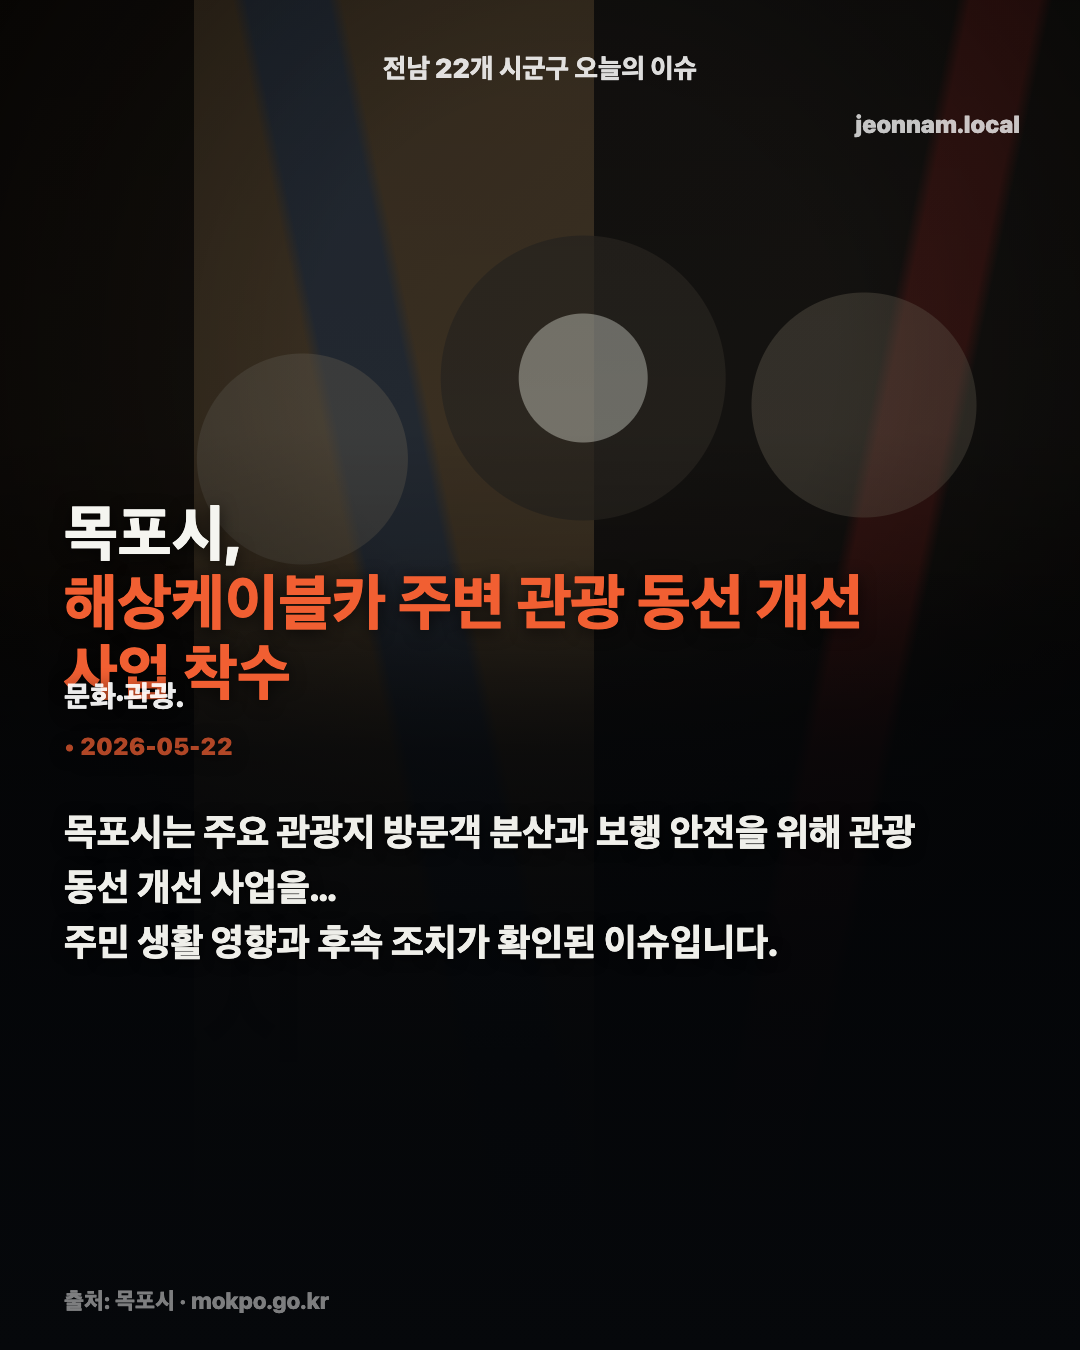
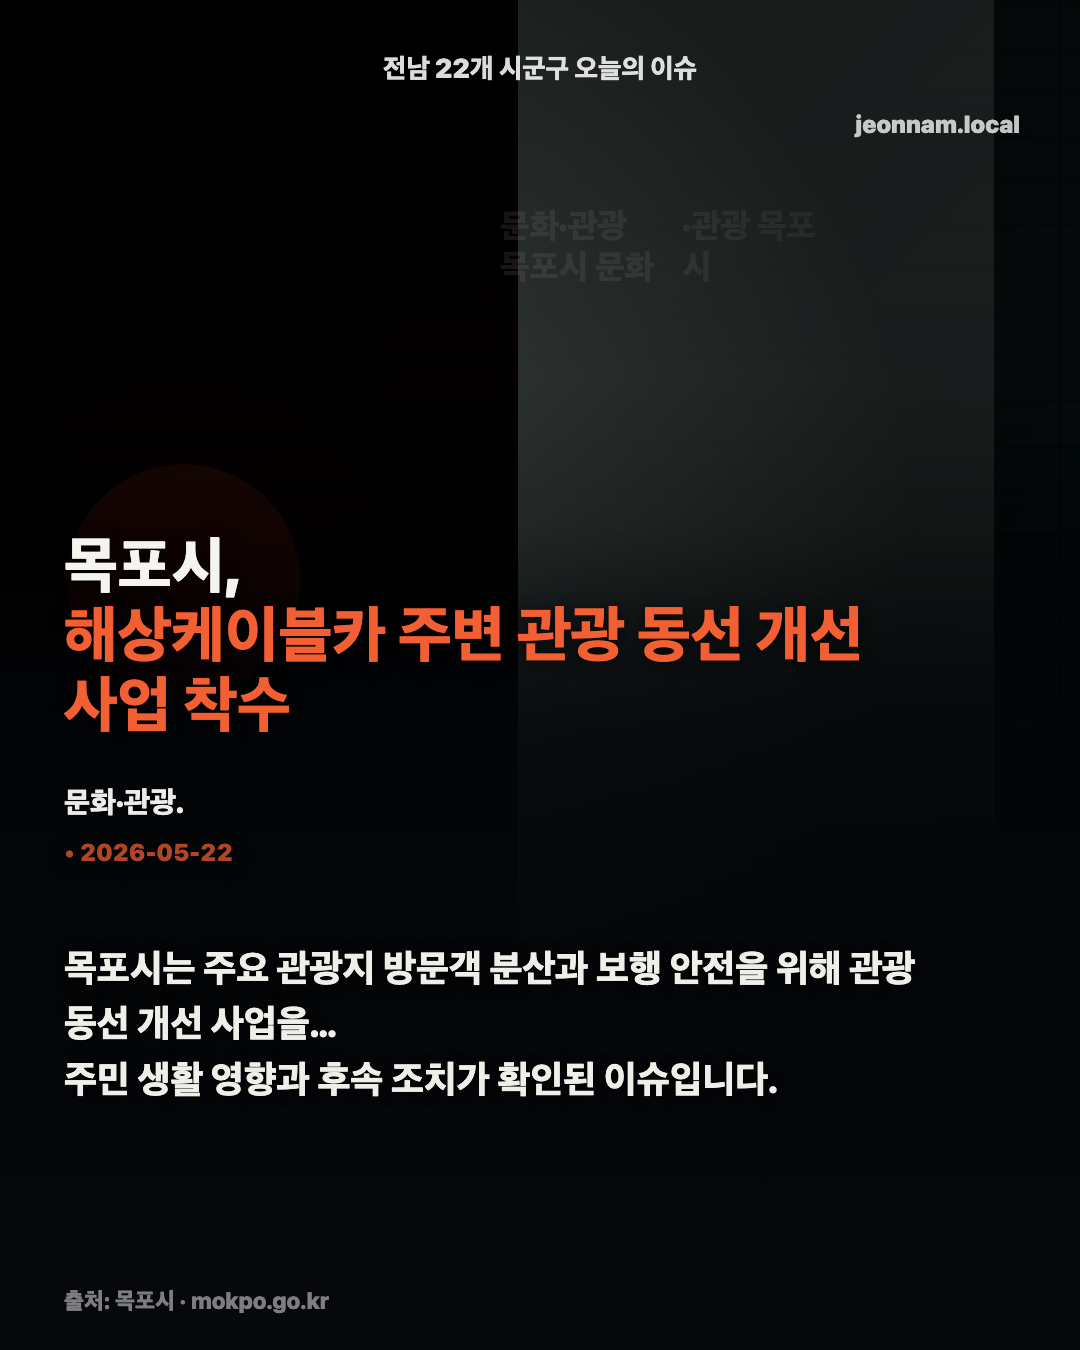
Add newsprint fallback card texture

diff --git a/reports/2026-05-22/html/목포시.html b/reports/2026-05-22/html/목포시.html
@@ -26,35 +26,37 @@
       position: absolute;
       inset: 0;
       background:
-        radial-gradient(circle at 54% 28%, rgba(230,230,215,.78) 0 64px, rgba(77,70,60,.76) 65px 142px, transparent 143px),
-        radial-gradient(circle at 28% 34%, rgba(160,150,130,.45) 0 105px, transparent 106px),
-        radial-gradient(circle at 80% 30%, rgba(195,180,150,.35) 0 112px, transparent 113px),
-        linear-gradient(78deg, transparent 0 38%, rgba(40,72,115,.62) 39% 45%, transparent 46%),
-        linear-gradient(102deg, transparent 0 70%, rgba(150,48,42,.58) 71% 76%, transparent 77%),
-        linear-gradient(90deg, rgba(40,34,28,.88) 0 18%, rgba(115,92,62,.78) 18% 55%, rgba(38,36,34,.9) 55% 100%),
-        linear-gradient(135deg, #26211d 0%, #6a5a43 46%, #171717 100%);
-      filter: contrast(1.08) brightness(.72) saturate(.82);
+        linear-gradient(90deg, rgba(0,0,0,.52) 0 48%, rgba(32,55,61,.54) 48% 100%),
+        radial-gradient(circle at 17% 43%, rgba(244,94,47,.46) 0 116px, rgba(72,26,18,.5) 117px 206px, transparent 207px),
+        linear-gradient(90deg, transparent 0 48%, rgba(228,232,214,.58) 48% 92%, transparent 92%),
+        repeating-linear-gradient(90deg, transparent 0 506px, rgba(0,0,0,.26) 506px 510px, transparent 510px 552px),
+        repeating-linear-gradient(0deg, transparent 0 22px, rgba(30,38,42,.42) 22px 27px, transparent 27px 44px),
+        linear-gradient(135deg, #171b1c 0%, #38251f 34%, #314246 72%, #111416 100%);
+      filter: contrast(1.15) brightness(.7) saturate(.72);
     }
     .photo::before {
-      content: "목포시";
+      content: "문화·관광  목포시  문화·관광  목포시";
       position: absolute;
-      left: -18px;
-      right: -18px;
-      bottom: 288px;
-      color: rgba(0,0,0,.34);
-      font-size: 126px;
-      line-height: .86;
+      left: 500px;
+      right: 54px;
+      top: 205px;
+      bottom: 270px;
+      color: rgba(235,235,225,.2);
+      font-size: 34px;
+      line-height: 1.22;
       font-weight: 900;
-      white-space: nowrap;
+      word-break: break-all;
       overflow: hidden;
+      column-count: 3;
+      column-gap: 20px;
     }
     .photo::after {
       content: "";
       position: absolute;
       inset: 0;
       background:
-        linear-gradient(180deg, rgba(0,0,0,.26) 0%, rgba(0,0,0,.22) 32%, rgba(0,0,0,.54) 58%, rgba(3,5,8,.96) 100%),
-        radial-gradient(circle at 53% 26%, transparent 0 260px, rgba(0,0,0,.36) 680px);
+        linear-gradient(180deg, rgba(0,0,0,.2) 0%, rgba(0,0,0,.22) 28%, rgba(0,0,0,.64) 62%, rgba(4,7,10,.97) 100%),
+        radial-gradient(circle at 25% 38%, transparent 0 260px, rgba(0,0,0,.34) 640px);
     }
     .topline {
       position: absolute;
@@ -91,16 +93,12 @@
       left: 0;
       right: 0;
       bottom: 0;
-      min-height: 790px;
-      padding: 118px 64px 54px;
+      min-height: 820px;
+      padding: 0 64px 54px;
       background: linear-gradient(180deg, transparent 0%, rgba(5,7,10,.66) 24%, #06080b 100%);
     }
     .headline {
       margin: 0;
-      position: absolute;
-      left: 64px;
-      right: 64px;
-      top: -62px;
       font-size: 62px;
       line-height: 1.12;
       font-weight: 900;
@@ -113,6 +111,7 @@
     }
     .category {
       display: block;
+      margin-top: 46px;
       color: #fff;
       font-size: 30px;
       line-height: 1.2;
@@ -123,7 +122,7 @@
       opacity: .92;
     }
     .summary {
-      margin-top: 44px;
+      margin-top: 74px;
       color: #efefea;
       font-size: 38px;
       line-height: 1.45;

diff --git a/reports/2026-05-22/html/순천시.html b/reports/2026-05-22/html/순천시.html
@@ -26,35 +26,37 @@
       position: absolute;
       inset: 0;
       background:
-        radial-gradient(circle at 54% 28%, rgba(230,230,215,.78) 0 64px, rgba(77,70,60,.76) 65px 142px, transparent 143px),
-        radial-gradient(circle at 28% 34%, rgba(160,150,130,.45) 0 105px, transparent 106px),
-        radial-gradient(circle at 80% 30%, rgba(195,180,150,.35) 0 112px, transparent 113px),
-        linear-gradient(78deg, transparent 0 38%, rgba(40,72,115,.62) 39% 45%, transparent 46%),
-        linear-gradient(102deg, transparent 0 70%, rgba(150,48,42,.58) 71% 76%, transparent 77%),
-        linear-gradient(90deg, rgba(40,34,28,.88) 0 18%, rgba(115,92,62,.78) 18% 55%, rgba(38,36,34,.9) 55% 100%),
-        linear-gradient(135deg, #26211d 0%, #6a5a43 46%, #171717 100%);
-      filter: contrast(1.08) brightness(.72) saturate(.82);
+        linear-gradient(90deg, rgba(0,0,0,.52) 0 48%, rgba(32,55,61,.54) 48% 100%),
+        radial-gradient(circle at 17% 43%, rgba(244,94,47,.46) 0 116px, rgba(72,26,18,.5) 117px 206px, transparent 207px),
+        linear-gradient(90deg, transparent 0 48%, rgba(228,232,214,.58) 48% 92%, transparent 92%),
+        repeating-linear-gradient(90deg, transparent 0 506px, rgba(0,0,0,.26) 506px 510px, transparent 510px 552px),
+        repeating-linear-gradient(0deg, transparent 0 22px, rgba(30,38,42,.42) 22px 27px, transparent 27px 44px),
+        linear-gradient(135deg, #171b1c 0%, #38251f 34%, #314246 72%, #111416 100%);
+      filter: contrast(1.15) brightness(.7) saturate(.72);
     }
     .photo::before {
-      content: "순천시";
+      content: "복지·생활  순천시  복지·생활  순천시";
       position: absolute;
-      left: -18px;
-      right: -18px;
-      bottom: 288px;
-      color: rgba(0,0,0,.34);
-      font-size: 126px;
-      line-height: .86;
+      left: 500px;
+      right: 54px;
+      top: 205px;
+      bottom: 270px;
+      color: rgba(235,235,225,.2);
+      font-size: 34px;
+      line-height: 1.22;
       font-weight: 900;
-      white-space: nowrap;
+      word-break: break-all;
       overflow: hidden;
+      column-count: 3;
+      column-gap: 20px;
     }
     .photo::after {
       content: "";
       position: absolute;
       inset: 0;
       background:
-        linear-gradient(180deg, rgba(0,0,0,.26) 0%, rgba(0,0,0,.22) 32%, rgba(0,0,0,.54) 58%, rgba(3,5,8,.96) 100%),
-        radial-gradient(circle at 53% 26%, transparent 0 260px, rgba(0,0,0,.36) 680px);
+        linear-gradient(180deg, rgba(0,0,0,.2) 0%, rgba(0,0,0,.22) 28%, rgba(0,0,0,.64) 62%, rgba(4,7,10,.97) 100%),
+        radial-gradient(circle at 25% 38%, transparent 0 260px, rgba(0,0,0,.34) 640px);
     }
     .topline {
       position: absolute;
@@ -91,16 +93,12 @@
       left: 0;
       right: 0;
       bottom: 0;
-      min-height: 790px;
-      padding: 118px 64px 54px;
+      min-height: 820px;
+      padding: 0 64px 54px;
       background: linear-gradient(180deg, transparent 0%, rgba(5,7,10,.66) 24%, #06080b 100%);
     }
     .headline {
       margin: 0;
-      position: absolute;
-      left: 64px;
-      right: 64px;
-      top: -62px;
       font-size: 62px;
       line-height: 1.12;
       font-weight: 900;
@@ -113,6 +111,7 @@
     }
     .category {
       display: block;
+      margin-top: 46px;
       color: #fff;
       font-size: 30px;
       line-height: 1.2;
@@ -123,7 +122,7 @@
       opacity: .92;
     }
     .summary {
-      margin-top: 44px;
+      margin-top: 74px;
       color: #efefea;
       font-size: 38px;
       line-height: 1.45;

diff --git a/reports/2026-05-22/html/여수시.html b/reports/2026-05-22/html/여수시.html
@@ -26,35 +26,37 @@
       position: absolute;
       inset: 0;
       background:
-        radial-gradient(circle at 54% 28%, rgba(230,230,215,.78) 0 64px, rgba(77,70,60,.76) 65px 142px, transparent 143px),
-        radial-gradient(circle at 28% 34%, rgba(160,150,130,.45) 0 105px, transparent 106px),
-        radial-gradient(circle at 80% 30%, rgba(195,180,150,.35) 0 112px, transparent 113px),
-        linear-gradient(78deg, transparent 0 38%, rgba(40,72,115,.62) 39% 45%, transparent 46%),
-        linear-gradient(102deg, transparent 0 70%, rgba(150,48,42,.58) 71% 76%, transparent 77%),
-        linear-gradient(90deg, rgba(40,34,28,.88) 0 18%, rgba(115,92,62,.78) 18% 55%, rgba(38,36,34,.9) 55% 100%),
-        linear-gradient(135deg, #26211d 0%, #6a5a43 46%, #171717 100%);
-      filter: contrast(1.08) brightness(.72) saturate(.82);
+        linear-gradient(90deg, rgba(0,0,0,.52) 0 48%, rgba(32,55,61,.54) 48% 100%),
+        radial-gradient(circle at 17% 43%, rgba(244,94,47,.46) 0 116px, rgba(72,26,18,.5) 117px 206px, transparent 207px),
+        linear-gradient(90deg, transparent 0 48%, rgba(228,232,214,.58) 48% 92%, transparent 92%),
+        repeating-linear-gradient(90deg, transparent 0 506px, rgba(0,0,0,.26) 506px 510px, transparent 510px 552px),
+        repeating-linear-gradient(0deg, transparent 0 22px, rgba(30,38,42,.42) 22px 27px, transparent 27px 44px),
+        linear-gradient(135deg, #171b1c 0%, #38251f 34%, #314246 72%, #111416 100%);
+      filter: contrast(1.15) brightness(.7) saturate(.72);
     }
     .photo::before {
-      content: "여수시";
+      content: "안전·교통  여수시  안전·교통  여수시";
       position: absolute;
-      left: -18px;
-      right: -18px;
-      bottom: 288px;
-      color: rgba(0,0,0,.34);
-      font-size: 126px;
-      line-height: .86;
+      left: 500px;
+      right: 54px;
+      top: 205px;
+      bottom: 270px;
+      color: rgba(235,235,225,.2);
+      font-size: 34px;
+      line-height: 1.22;
       font-weight: 900;
-      white-space: nowrap;
+      word-break: break-all;
       overflow: hidden;
+      column-count: 3;
+      column-gap: 20px;
     }
     .photo::after {
       content: "";
       position: absolute;
       inset: 0;
       background:
-        linear-gradient(180deg, rgba(0,0,0,.26) 0%, rgba(0,0,0,.22) 32%, rgba(0,0,0,.54) 58%, rgba(3,5,8,.96) 100%),
-        radial-gradient(circle at 53% 26%, transparent 0 260px, rgba(0,0,0,.36) 680px);
+        linear-gradient(180deg, rgba(0,0,0,.2) 0%, rgba(0,0,0,.22) 28%, rgba(0,0,0,.64) 62%, rgba(4,7,10,.97) 100%),
+        radial-gradient(circle at 25% 38%, transparent 0 260px, rgba(0,0,0,.34) 640px);
     }
     .topline {
       position: absolute;
@@ -91,16 +93,12 @@
       left: 0;
       right: 0;
       bottom: 0;
-      min-height: 790px;
-      padding: 118px 64px 54px;
+      min-height: 820px;
+      padding: 0 64px 54px;
       background: linear-gradient(180deg, transparent 0%, rgba(5,7,10,.66) 24%, #06080b 100%);
     }
     .headline {
       margin: 0;
-      position: absolute;
-      left: 64px;
-      right: 64px;
-      top: -62px;
       font-size: 62px;
       line-height: 1.12;
       font-weight: 900;
@@ -113,6 +111,7 @@
     }
     .category {
       display: block;
+      margin-top: 46px;
       color: #fff;
       font-size: 30px;
       line-height: 1.2;
@@ -123,7 +122,7 @@
       opacity: .92;
     }
     .summary {
-      margin-top: 44px;
+      margin-top: 74px;
       color: #efefea;
       font-size: 38px;
       line-height: 1.45;

diff --git a/templates/card.html b/templates/card.html
@@ -26,35 +26,37 @@
       position: absolute;
       inset: 0;
       background:
-        radial-gradient(circle at 54% 28%, rgba(230,230,215,.78) 0 64px, rgba(77,70,60,.76) 65px 142px, transparent 143px),
-        radial-gradient(circle at 28% 34%, rgba(160,150,130,.45) 0 105px, transparent 106px),
-        radial-gradient(circle at 80% 30%, rgba(195,180,150,.35) 0 112px, transparent 113px),
-        linear-gradient(78deg, transparent 0 38%, rgba(40,72,115,.62) 39% 45%, transparent 46%),
-        linear-gradient(102deg, transparent 0 70%, rgba(150,48,42,.58) 71% 76%, transparent 77%),
-        linear-gradient(90deg, rgba(40,34,28,.88) 0 18%, rgba(115,92,62,.78) 18% 55%, rgba(38,36,34,.9) 55% 100%),
-        linear-gradient(135deg, #26211d 0%, #6a5a43 46%, #171717 100%);
-      filter: contrast(1.08) brightness(.72) saturate(.82);
+        linear-gradient(90deg, rgba(0,0,0,.52) 0 48%, rgba(32,55,61,.54) 48% 100%),
+        radial-gradient(circle at 17% 43%, rgba(244,94,47,.46) 0 116px, rgba(72,26,18,.5) 117px 206px, transparent 207px),
+        linear-gradient(90deg, transparent 0 48%, rgba(228,232,214,.58) 48% 92%, transparent 92%),
+        repeating-linear-gradient(90deg, transparent 0 506px, rgba(0,0,0,.26) 506px 510px, transparent 510px 552px),
+        repeating-linear-gradient(0deg, transparent 0 22px, rgba(30,38,42,.42) 22px 27px, transparent 27px 44px),
+        linear-gradient(135deg, #171b1c 0%, #38251f 34%, #314246 72%, #111416 100%);
+      filter: contrast(1.15) brightness(.7) saturate(.72);
     }
     .photo::before {
-      content: "{{region}}";
+      content: "{{category_label}}  {{region}}  {{category_label}}  {{region}}";
       position: absolute;
-      left: -18px;
-      right: -18px;
-      bottom: 288px;
-      color: rgba(0,0,0,.34);
-      font-size: 126px;
-      line-height: .86;
+      left: 500px;
+      right: 54px;
+      top: 205px;
+      bottom: 270px;
+      color: rgba(235,235,225,.2);
+      font-size: 34px;
+      line-height: 1.22;
       font-weight: 900;
-      white-space: nowrap;
+      word-break: break-all;
       overflow: hidden;
+      column-count: 3;
+      column-gap: 20px;
     }
     .photo::after {
       content: "";
       position: absolute;
       inset: 0;
       background:
-        linear-gradient(180deg, rgba(0,0,0,.26) 0%, rgba(0,0,0,.22) 32%, rgba(0,0,0,.54) 58%, rgba(3,5,8,.96) 100%),
-        radial-gradient(circle at 53% 26%, transparent 0 260px, rgba(0,0,0,.36) 680px);
+        linear-gradient(180deg, rgba(0,0,0,.2) 0%, rgba(0,0,0,.22) 28%, rgba(0,0,0,.64) 62%, rgba(4,7,10,.97) 100%),
+        radial-gradient(circle at 25% 38%, transparent 0 260px, rgba(0,0,0,.34) 640px);
     }
     .topline {
       position: absolute;
@@ -91,16 +93,12 @@
       left: 0;
       right: 0;
       bottom: 0;
-      min-height: 790px;
-      padding: 118px 64px 54px;
+      min-height: 820px;
+      padding: 0 64px 54px;
       background: linear-gradient(180deg, transparent 0%, rgba(5,7,10,.66) 24%, #06080b 100%);
     }
     .headline {
       margin: 0;
-      position: absolute;
-      left: 64px;
-      right: 64px;
-      top: -62px;
       font-size: 62px;
       line-height: 1.12;
       font-weight: 900;
@@ -113,6 +111,7 @@
     }
     .category {
       display: block;
+      margin-top: 46px;
       color: #fff;
       font-size: 30px;
       line-height: 1.2;
@@ -123,7 +122,7 @@
       opacity: .92;
     }
     .summary {
-      margin-top: 44px;
+      margin-top: 74px;
       color: #efefea;
       font-size: 38px;
       line-height: 1.45;